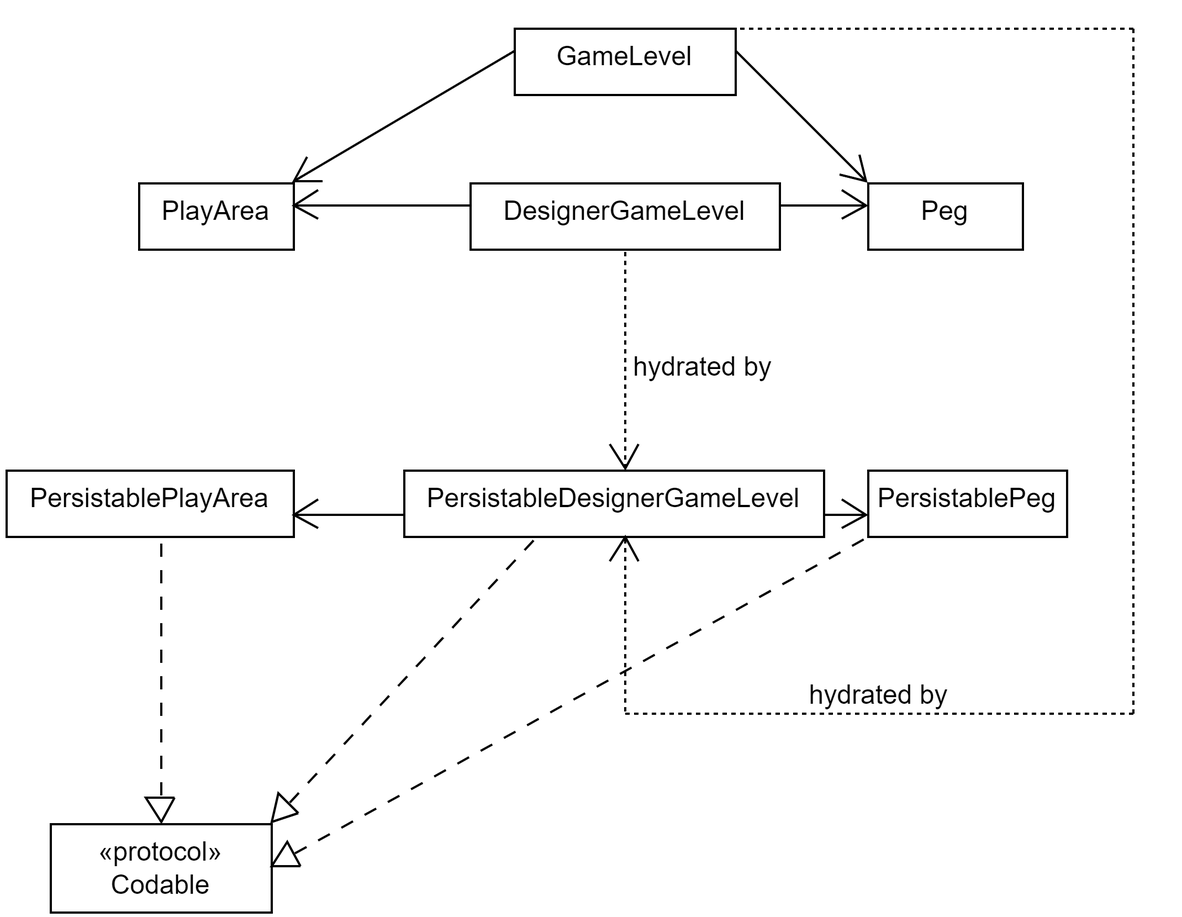
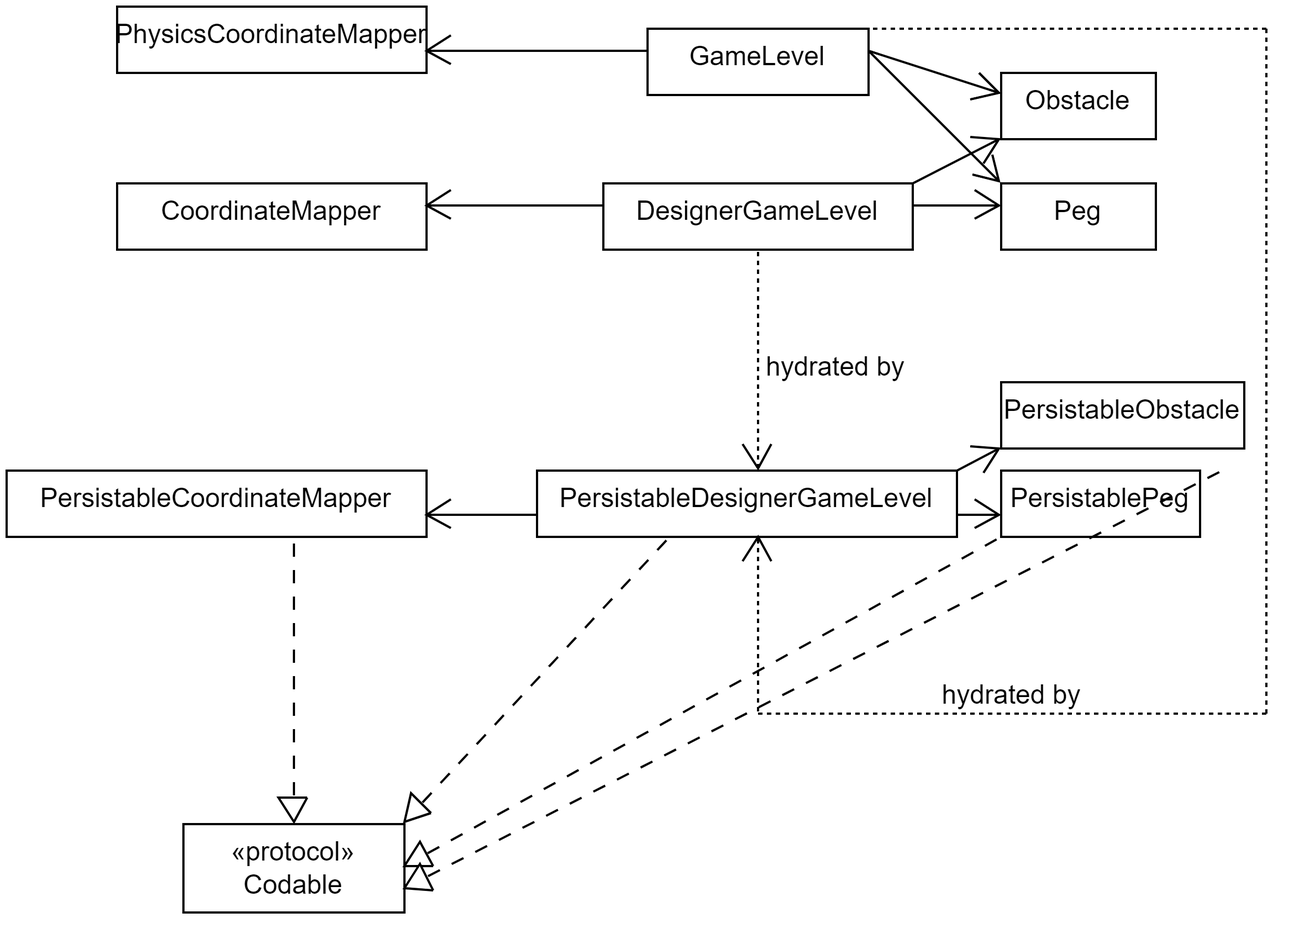
Update README

diff --git a/README.md b/README.md
@@ -57,13 +57,17 @@ General utilities consist of 2 main classes, `LoggerWrapper` and `Storage`. Ther
 With the general utilities covered, we can move on to the core business logic of PeggleClone.
 
 
+#### Audio
+- `Audio` is responsible for setting up the audio session and creating instances of `AVAudioPlayer` using stored audio files in the bundle.
+- It also provides a global object `globalAudio` since the audio session should only be setup once, so multiple instantiations of `Audio` may cause issues.
+
 ### Coordinator
 
 <img src="./images/coordinator.png" />
 
 The diagrams shows the flow of views. The root view is a `NavigationViewController` and transitions to views take the form of pushing them onto the navigation stack by `AppCoordinator`. When views are dismissed, they are popped from the stack.
 
-The root view of the `NavigationalViewController` is the menu, where the player can choose between selecting a level to play, or going straight into the level designer.
+The root view of the `NavigationalViewController` is the menu, where the player can choose between selecting a level to play as well as a peggle master, or going straight into the level designer.
 
 ### Models
 We cover the revised shape hierarchy. The `XXXShape` and `XXXPolygon` protocol chain appears to be parallel, while in some environments it may be deemed as an anti-pattern, it does not cause any issues in this application, and in fact makes things more explicit.
@@ -82,12 +86,14 @@ $$
 in Cartesian coordinates.
 This is easily generalizable to $(r\cdot \cos(\frac{2\pi i}{n} + \theta),r\cdot \sin(\frac{2\pi i}{n} + \theta))$ for some $\theta$ by doing a rotation on the shape.
 
-`XXXObject` are class-implementations of the various protocols. For the game engine objects, only `CircleObject` and `TransformablePolygonObject` are used, since these cover all the shapes we need for Peggle. Of course, this excludes shapes like non-circular ellipses, but we will not cover those.
+`XXXObject` are class-implementations of the various protocols. For the game engine objects, only `CircleObject`, `TriangleObject` and `TransformablePolygonObject` are used, since these cover all the shapes we need for Peggle. Of course, this excludes shapes like non-circular ellipses, but we will not cover those.
+
+Note that `TriangleObject` is a subclass of `TransformablePolygonObject`. It is mainly used for `Obstacle`, which is restricted to triangular shape. The reason is that the vertices of an `Obstacle` can be freely moved around, and if a polygon has more than 3 sides, it is not trivial to ensure that the shape remains convex. A triangle, on the other hand, is always convex.
 
 ##### The coordinate system
 The coordinate system is a mixture of cartesian coordinates and polar coordinates.
 The position of a shape is given by its center, which uses cartesian coordinates.
-The vertices of a shape are relative to the shape's center, these use polar coordinates, with the origin being the center of the peg.
+The vertices of a shape are relative to the shape's center, these use polar coordinates, with the origin being the center of the peg. The pro of using polar coordinates is that they make certain transformations like rotation and scaling trivial to perform.
 
 Next, we examine the actual game objects. Note that the shape hierarchy provides the geometrical properties associated with each game object.
 
@@ -95,9 +101,12 @@ Next, we examine the actual game objects. Note that the shape hierarchy provides
 
 - `GameEntity` is the high level protocol that all game objects conform to.
 - `EditableGameEntity` are game entities that can be edited in the level designer. For example, the ball is not editable since it is not part of the level design.
+- `GameObject` is a pseudo-abstract class that abstracts out the main functionalities associated with peg, obstacle, etc.
+- `EditableGameObject` adds on the properties required by `EditableGameEntity` to `GameObject`
 - `Ball` is the ball that is shot from the cannon.
 - `Peg`s are any destructible objects (by the ball).
 - `Obstacle`s are indestructible objects. Obstacles can still be potentially forcibly removed if the ball gets stuck.
+- `Bucket` is not editable since it does not appear in the level designer. A bucket is a composite of 3 game objects, i.e. the left side, the right side, and the receiver that receives a ball to grant a free ball.
 
 The game level is split into 2 major models. The first is the `DesignerGameLevel`, which represents the state of the level being designed on the level designer. The second is `GameLevel`, which represents the state of the level when the game is actually being played.
 
@@ -116,11 +125,17 @@ There are 3 types of coordinates in this application. They are:
 The base `CoordinateMapper` class only handles conversion between logical and screen coordinates.
 Logical coordinates are of the following form. Upon creation of a level, $\text{aspect ratio} = \frac{\text{screen width}}{\text{screen height}}$. After this computation, the logical coordinate space is then described by
 $$
-[0, \text{aspect ratio}] \times [0, 1]
+[0, \text{aspect ratio}] \times [0, \text{logical height}]
 $$
-In other words, the y-component of the logical coordinate space is always in $[0, 1]$.
+where logical height is at least 1.
+In other words, the y-component of the logical coordinate space is always in $[0, \text{logical height}]\supseteq [0, 1]$.
 The actual display dimensions are then a scaled-up version of the logical coordinate space. The application scales this as large as possible without exceeding either screen width or screen height.
 
+With the addition of scrolling, there are 2 notions of display dimensions.
+1. Viewable display area **on screen**, i.e. the ScrollView
+2. Backing display area which is a child view of the ScrollView.
+$[0, \text{aspect ratio}] \times [0, 1]$ maps to the first in some sense. By this, I mean that the unit interval in logical coordinate space corresponds to the on screen view.
+$[0, \text{aspect ratio}] \times [0, \text{logical height}]$ maps to the second.
 ##### PlayArea
 The play area represents the big rectangular box that the game takes place in. Everything (pegs and obstacles) must be wholly contained within the play area.
 
@@ -153,8 +168,8 @@ Somewhat unlike `DesignerGameLevel`, `GameLevel` only one main dependency, the `
 The enumeration `GamePhase` models the state of the game is in. Read the in-code documentation for a summary of the game states.
 
 The `PhysicsEngine` has these dependencies:
-- `RigidBodyObject`, which is a concrete implementation of the `RigidBody` protocol. The `RigidBodyObject` contains an assortment of properties that are used to perform physics calculations.
-- The `RigidBodyObject` has a convenience reference back to the `GameEntity` it is associated with, allowing the physics engine to communicate with the game level, which can be interpreted as the game engine.  
+- `RigidBody` contains an assortment of properties that are used to perform physics calculations.
+- The `RigidBody` has a convenience reference back to the `GameEntity` it is associated with, allowing the physics engine to communicate with the game level, which can be interpreted as the game engine. 
 - `Boundary` represents the physical world of the game. It is rectangular, and each rigid object can have customized behavior when it collides with an edge of the boundary.
 
 The `WallBehavior` enumeration (See `Boundary.swift`)  dictates how a rigid body ought to behave upon colliding with an edge of the boundary.
@@ -162,18 +177,71 @@ The `WallBehavior` enumeration (See `Boundary.swift`)  dictates how a rigid body
 2. `collide`: Just as what you would expect, the body will bounce off the wall.
 3. `wrapAround`: The body "wraps around" to the opposite side of the boundary. For example, if the body moves completely outside the left wall, and its left wall behavior is marked as wrapAround, then the body will be teleported to the right wall, keeping its previous velocity.
 
+The rigid body has multiple sub-components. In a previous version of this project, many of these properties are flat, and not organized into these sub-objects.
+
+<img src="./images/model_rigid_body.png"/>
+
+- `PhysicsEngineReports` is used by the physics engine to suggest changes to the rigid body to the game engine, and it is up to the game engine to decide whether to commit or discard these changes to the rigid body. Additionally, the game engine may even conduct some other game specific logic when it examines these suggestions.
+- `PhysicalProperties` consist of the most essential properties of a physics object. Most notably, the position of the rigid body (i.e. `backingShape.center`) is stored here.
+- `LongTermDelta` consists of potentially long-lasting properties that can be used to effect change on the physical properties. By long-lasting, I mean that they can last longer than one physics update.
+- `InstantaneousDelta` consists of short-lasting properties that can effect change over 1 physics update. After the physics update, the instantaneous delta is reset, e.g. `nextTeleportLocation` is set to nil, `force` and other vector quantities are set to zero.
+- `ConfigurationForPhysicsEngine` are flags for the physics engine to narrow down what rigid bodies to update, and how to suggest updates for them. For example, without the `canTranslate` or `canRotate` tag, the physics engine would need to go over every single physics object to be safe. So these are mainly used for efficiency reasons.
+- `MiscProperties` are other properties less relevant to physics, but are still useful information for the game engine.
+
+
+We next examine the various properties on a `RigidBody` (and its subcomponents) and how they affect it. Not listed here are also some computed properties on `RigidBodyObject` that essentially come from the underlying `backingShape`.
+
+- `associatedEntity: GameEntity?`: Used to communicate with the game engine. When passing a rigidbody back to the game engine, this field allows the game engine to find out which game entity is associated with the rigid body, and apply the corresponding game logic.
+- `sides: Int`: The number of sides of the underlying shape. 0 if the shape is a circle.
+
+##### PhysicsEngineReports
+- `teleports: [Teleport]`: Teleports on the rigid body suggested by the physics engine.
+- `forces: [Force]`: Forces suggested.
+- `impulses: [Impulse]`: Impulses suggested.
+- `collisionDetected: Bool`: Whether a collision is detected by the physics engine. Whether this collision is to be registered is still up to the game engine's discretion.
+##### PhysicalProperties
+- `backingShape: TransformableShape`: The underlying geometrical shape of the rigidbody. Notice that the rigidbody does not care about what the game object is, be it a `Peg`, `Ball` etc. Only the shape can possibly affect its physical properties.
+- `uniformDensity: Double`: The density uniform across a rigidbody. Clearly, simulating varying density is far beyond a simple physics engine.
+- `mass: Double`: Physics concept. Defaults to the area of the underlying shape scaled by the uniform density.
+- `inverseMass: Double`: The reciprocal of mass.
+- `momentOfInertia: Double`: Physics concept. The rotational equivalent of mass. Defaults to the moment of area (see wikipedia) of the underlying shape scaled by the uniform density.
+  - **Remark**: In the implementation, this quantity is multipled by `Settings.easeOfRotation.rawValue` in order to possibly make pegs more easy to rotate. This is because the moment of inertia is dependent on shape area, and without this artificial scaling factor, the ball is too small to apply sufficient force on a large peg to make it spin. 
+- `inverseMomentOfInertia: Double`: The reciprocal of moment of inertia.
+- `elasticity: Double`: Determines how much energy is lost by a rigidbody upon collision.
+
+##### LongTermDelta
+- `linearVelocity: CGVector`: Physics concept.
+- `angularVelocity: Double`: Physics concept. The rotational equivalent of linear veloicty.
+- `persistentForces: [Force]`: Long lasting forces that act on the rigid body.
+##### InstantaneousDelta
+- `nextTeleportLocation: CGPoint?`: Allows the physics engine to teleport a rigidbody in an update.
+- `force: CGVector`: Physics concept.
+- `impulseIgnoringForce: CGVector`: Physics concept. Impulse is the change in momentum, and is the result of force applied over time. This particular quantity, however, acts as "instanteneous impulse", and ignores force. See "impulse-based physics engines" for more details.
+- `torque: Double`: Physics concept. The rotational equivalent of force.
+- `angularImpulseIgnoringTorque: Double`: Physics concept.
+- `changeToWrapAroundCount: CounterChange`: Whether to increment, reset or make no changes to the wrap around count.
+- `shouldDelete`: Whether the rigid body should be deleted.
+##### ConfigurationForPhysicsEngine
+- `canTranslate: Bool`: This property overrides mass. Determines whether an object can actually translate, regardless of its mass.
+- `canRotate: Bool`: This property overrides moment of inertia. Determines whether an object can actually rotate, regardless of its moment of inertia.
+- `leftWallBehavior, rightWallBehavior, topWallBehavior, bottomWallBehavior: WallBehavior`: This has been explained above.
+
+##### MiscProperties
+- `consecutiveCollisionCount: Int`: The number of consecutive physics engine updates for which a collision is detected. Used by the game engine to detect if objects are stuck.
+- `wrapAroundCount: Int`: The number of times for which a physics object has wrapped around the game boundary.
 
 #### Persistence
 Before moving on to more details about the game level, we first discuss the persistence models, since we have already covered the `DesignerGameLevel` and `GameLevel`.
 
 <img src="./images/model_persistence.png"/>
 
-Only 3 models are Codable, and persisted, `PersistablePlayArea`, `PersistableDesignerGameLevel` and `PersistablePeg`. They are stripped down versions of the `PlayArea`, `DesignerGameLevel` and `Peg`.
+Only 4 models are Codable, and persisted, `PersistableCoordinateMapper`, `PersistableObstacle`, `PersistablePeg` and `PersistableDesignerGameLevel`. They are stripped down versions of the regular models. Note that `PlayArea` does not need to be persisted, since the coordinate mapper has all the required information to produce the playarea when hydrating a game level.
 
 The most notable part is that both `DesignerGameLevel` and `GameLevel` are hydrated by the `PersistableDesignerGameLevel`. In other words,
 - When a designed game level is saved, it is converted to `PersistableDesignerGameLevel`
 - When transitioning into the designer view, the information available in `PersistableDesignerGameLevel` is injected into the `DesignerGameLevel`, and the view is then updated accordingly.
 - When transitioning into the game view, similarly the game view gets its information from `PersistableDesignerGameLevel`.
+- Hydration is the **only** way pegs, obstacles are added to a blank level. The constructor of `DesignerGameLevel` and `GameLevel` in fact do not allow filled peg containers to be provided. They only accept empty containers. The reason is that the process of adding new game objects needs to be reflected on screen, and at the initialization stage, the view controller callbacks have not been registered in the model.
 
 **Remark** Due to the nature of the hydration, which takes place after a controller's `viewDidAppear` lifecycle phase, the loading process can be quite obvious, especially on iOS simulators. i.e. You can see the pegs popping into view. There may be better ways to do this, like add in a loading spinner, but I think I may not do that due to time reasons.
 
@@ -192,9 +260,12 @@ This is a relatively high level overview of the game loop. To avoid seeing the f
 - Game phase: We assume that the game is currently in the `.ongoing` phase. The code itself has more documentation about the various game phases and what they mean. See `GamePhase.swift`.
 - Physics engine: Details about what the physics engine does are left out. Collision resolution is done in `calculateWithoutApplyingResults` and rigid body updates are done in `applyResults`
 
-Now, the call sequence of `applyResults` is actually quite detailed. The reason for this is to see the series of callbacks that result. In particular, `GameLevel` attaches game logic callbacks onto `PhysicsEngine`, and `GameViewController` attaches view logic callbacks onto `GameLevel`.
+There are 2 points in an update in which the physics engine communicates with the game engine.
+The first is when the physics engine notifies the game engine of which rigid bodies has their `physicsEngineReports` altered. Here, changes to the rigid bodies' `instantaneousDelta` has not been made, so it is up to the game engine to pick and choose which changes to persist.
 
-The `XXX` can be replaced by `Ball` or `Peg`.
+The second is the call sequence of `applyResults`. `GameLevel` attaches game logic callbacks onto `PhysicsEngine`, and `GameViewController` attaches view logic callbacks onto `GameLevel`.
+
+The `XXX` can be replaced by `Ball`, `Peg`, `Obstacle`.
 
 #### Physics Engine
 We examine a high level activity diagram of what the physics engine does.
@@ -203,43 +274,16 @@ We examine a high level activity diagram of what the physics engine does.
 For each physics update, the physics engine first calculates the physical properties (like position, velocity) for all objects based on the most recent state without applying these updates. This is so that the order of updates will not matter.
 
 When doing calculations, 2 things need to be resolved.
-1. The first is to resolve the case where an object collides with the game's boundaries, for example the left wall. Based on how the object is defined to behave at the wall, the physics engine calculates the next position/velocity accordingly.
-2. The second is to resolve the collisions between rigid bodies.
+1. The first is to resolve the case where an object collides with the game's boundaries, for example the left wall. Based on how the object is defined to behave at the wall, the physics engine suggests the next teleport position or impulses accordingly in `rigidBody.physicsEngineReports`
+2. The second is to resolve the collisions between rigid bodies, and the physics engine suggests collision impulses in `rigidBody.physicsEngineReports`.
 
-In the next step, objects outside the game boundaries are removed. For example, a ball that falls below the game screen.
+In the next step, the game engine is notified of these suggestions and decides what changes to persist.
+
+In the next step, objects registered for deletion, such as those outside the game boundaries, are removed. For example, a ball that falls below the game screen.
 
 Finally, the physics calculations are applied to each object. Here, a single physics update is considered done.
-
-
-
-#### RigidBodyObject
-We examine the various properties on a `RigidBodyObject` and how they affect it. Not listed here are also some computed properties on `RigidBodyObject` that essentially come from the underlying `backingShape`.
-- `backingShape: TransformableShape`: The underlying geometrical shape of the rigidbody. Notice that the rigidbody does not care about what the game object is, be it a `Peg`, `Ball` etc. Only the shape can possibly affect its physical properties.
-- `associatedEntity: GameEntity?`: Used to communicate with the game engine. When passing a rigidbody back to the game engine, this field allows the game engine to find out which game entity is associated with the rigid body, and apply the corresponding game logic.
-- `sides: Int`: The number of sides of the underlying shape. 0 if the shape is a circle.
-- `nextTeleportLocation: CGPoint?`: Allows the physics engine to teleport a rigidbody in an update.
-- `isAffectedByGlobalForces: Bool`: Whether the body is affected by global forces like gravity.
-- `canTranslate: Bool`: This property overrides mass. Determines whether an object can actually translate, regardless of its mass.
-- `canRotate: Bool`: This property overrides moment of inertia. Determines whether an object can actually rotate, regardless of its moment of inertia.
-- `uniformDensity: Double`: The density uniform across a rigidbody. Clearly, simulating varying density is far beyond a simple physics engine.
-- `mass: Double`: Physics concept. Defaults to the area of the underlying shape scaled by the uniform density.
-- `inverseMass: Double`: The reciprocal of mass. Used as a performance optimization.
-- `momentOfInertia: Double`: Physics concept. The rotational equivalent of mass. Defaults to the moment of area (see wikipedia) of the underlying shape scaled by the uniform density.
-  - **Remark**: In the implementation, this quantity is multipled by `Settings.easeOfRotation.rawValue` in order to possibly make pegs more easy to rotate. This is because the moment of inertia is dependent on shape area, and without this artificial scaling factor, the ball is too small to apply sufficient force on a large peg to make it spin. 
-- `inverseMomentOfInertia: Double`: The reciprocal of moment of inertia. Used as a performance optimization.
-- `linearVelocity: CGVector`: Physics concept.
-- `angularVelocity: Double`: Physics concept. The rotational equivalent of linear veloicty.
-- `force: CGVector`: Physics concept.
-- `impulseIgnoringForce: CGVector`: Physics concept. Impulse is the change in momentum, and is the result of force applied over time. This particular quantity, however, acts as "instanteneous impulse", and ignores force. See "impulse-based physics engines" for more details.
-- `torque: Double`: Physics concept. The rotational equivalent of force.
-- `angularImpulseIgnoringTorque: Double`: Physics concept.
-- `elasticity: Double`: Determines how much energy is lost by a rigidbody upon collision.
-- `leftWallBehavior, rightWallBehavior, topWallBehavior, bottomWallBehavior: WallBehavior`: This has been explained above.
-- `hasCollidedMostRecently: Bool`: Whether in the most recent physics update, the rigidbody has collided with something.
-- `consecutiveCollisionCount: Int`: The number of consecutive physics engine updates for which a collision is detected. Used by the game engine to detect if objects are stuck.
-
 ### View Models, Controllers, Views
-Since the view models, controllers and views are closely related, we will discuss them together.
+Since the view models, controllers and views are closely related, we will discuss them together. In a previous version of this developer guide, the view models were also included in the diagram. They have now been removed as they do not add much to the picture and only increase clutter.
 
 #### Level Designer
 <img src="./images/view_designer.png" />
@@ -264,6 +308,7 @@ The `StorageViewController` handles the bottom bar of the level designer and it 
 
 The `DesignerViewController` controls the bulk of the level designer. The concerns it handles include
 - Letterboxing
+- Scrolling
 - Choosing the level editor mode ("Concrete" vs "Ghost")
 - Adding, updating (moving), removing pegs
 - Removing inconsistent ("ghost") pegs
@@ -271,7 +316,7 @@ The `DesignerViewController` controls the bulk of the level designer. The concer
 
 **Remarks**
 - When a placed peg is selected in the level designer, a rectangular box will be drawn around it.
-- The letterboxing implementation is incomplete, as the game view itself does not have letterboxing logic. The designer view's implementation is also incomplete. For now, the letterboxing only works when creating a new level, or loading a level of the same size as the screen. The letterboxing comes in the form of translucent blue boxes.
+- The letterboxes are presented in the form of translucent blue boxes.
 
 #### Game
 
@@ -279,9 +324,13 @@ The `DesignerViewController` controls the bulk of the level designer. The concer
 
 The `GameViewModel` relies on the `GameLevel` for information on game objects, and renders them accordingly onto the view.
 
-Like `DesignerViewController`, the `GameViewController` maps pegs to views, and adds view relevant callbacks to the `GameLevel`. Indeed, one may question whether this coupling between controller and view is acceptable in MVVM. This is addressed in the section on *Design Tradeoffs*.
+Like `DesignerViewController`, the `GameViewController` maps pegs to views, and adds view relevant callbacks to the `GameLevel`.
 
-The `GameView` is responsible for rendering the cannon (in future) and the guiding line of fire.
+
+- The `GameplayAreaDynamicView` contains the content that is responsive to scrolling, i.e., such content has a specific position in the game logic, and as the level scrolls, their on-screen positions will update accordingly.
+- The `GameplayAreaStaticView` contains the content fixed to the screen, and does not respond to level scrolling
+- The `CannonLineView` is responsible for rendering the cannon (in future) and the guiding line of fire.
+- The `GameEndViewController` controls the popup container view when the game ends in a win or loss.
 
 #### Level Select
 
@@ -290,6 +339,8 @@ The `GameView` is responsible for rendering the cannon (in future) and the guidi
 The level select view is rather simple and serves to display the collection of stored levels along with their associated preview images.
 
 Upon loading a level, it transitions back to the level designer.
+
+The `PeggleMasterCollectionViewController` presents a grid of peggle masters to choose from. The default peggle master is Battler.
 
 ## Rules of the Game
 Please write the rules of your game here. This section should include the
@@ -327,15 +378,15 @@ As this class has been refactored to allow for dependency injection, it is possi
   - given level with different `playArea`, expect error to be thrown
   - given level with equally sized `playArea`, expect success. Furthermore, check that `self` has exactly the same pegs as `incomingPeg` by comparing their respective containers.
 
-- `addPeg`
+- `addGameObject`
   - Try adding the exact same peg (identical) twice. Check that callbacks are called the first time. Check that no callbacks are called the second time. (To do this, we can register a callback that updates a counter.)
   - Set `isAcceptingOverlappingPegs` to true. Try adding two equivalent, but not identical pegs. Expect both pegs to be added, so that add callbacks are triggered.
 
-- `removePeg`
+- `removeGameObject`
   - Deleting a peg that doesn't exist would cause an assertion failure.
   - Checking for successful deletion is similar as in `addPeg`, register a callback that updates a counter, and check the the parameter received by the callback is indeed the deleted peg.
 
-- `updatePeg`
+- `updateGameObject`
   - Again, checking for successful update amounts to adding a suitable callback.
   - Passing two identical pegs would cause assertion error.
 
